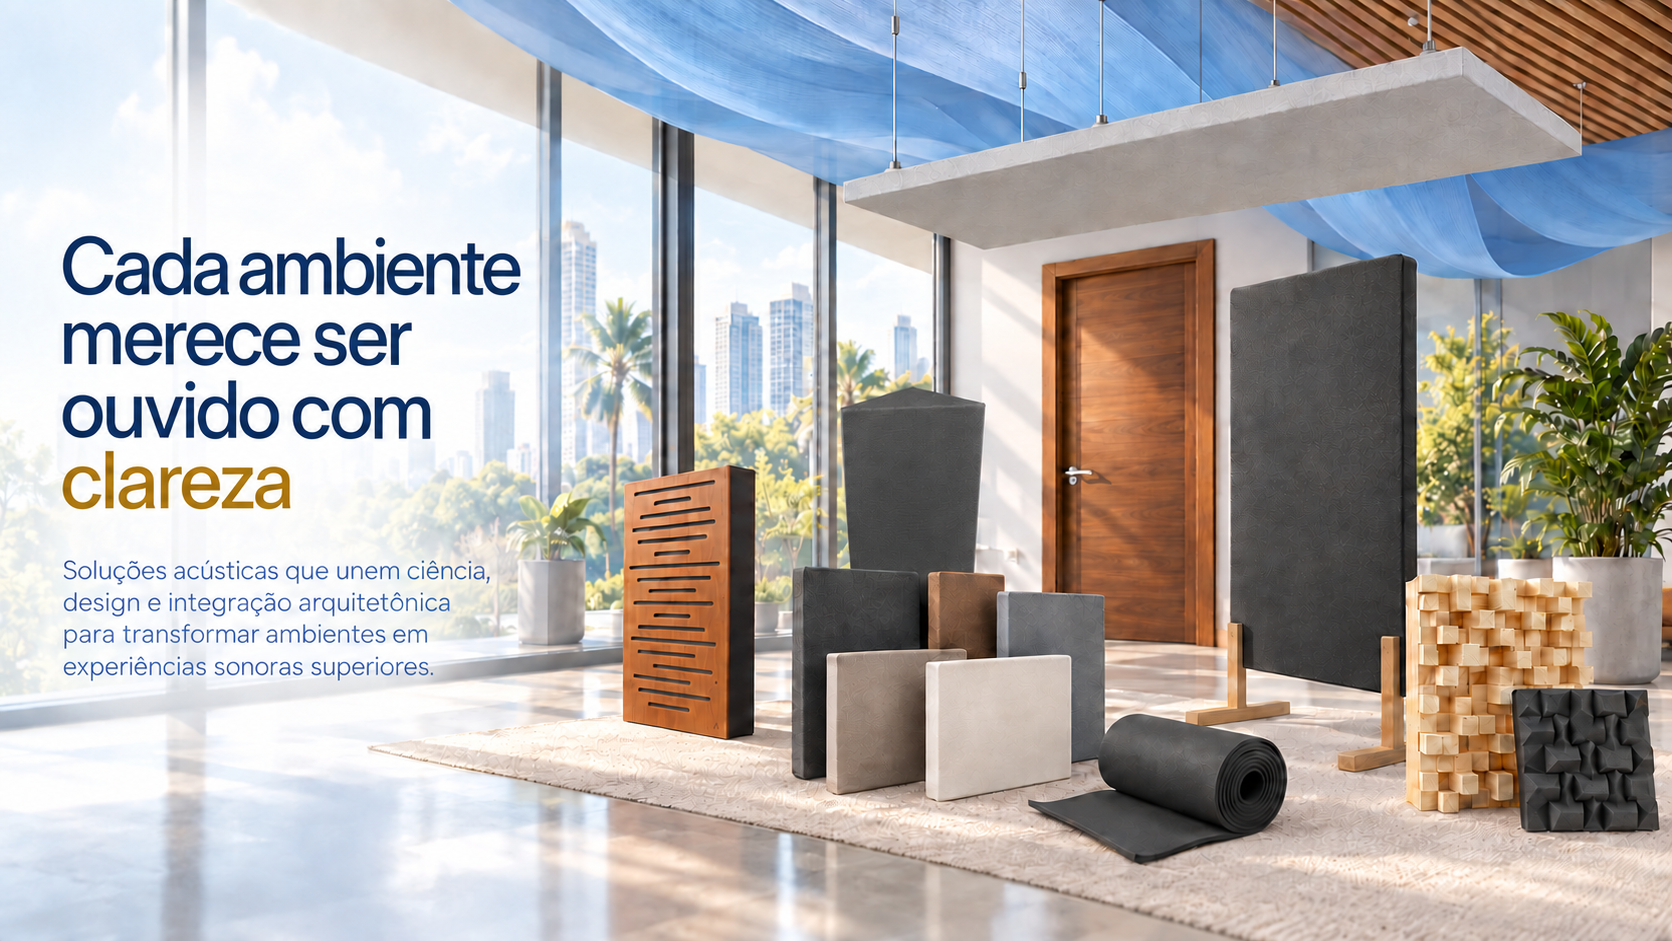
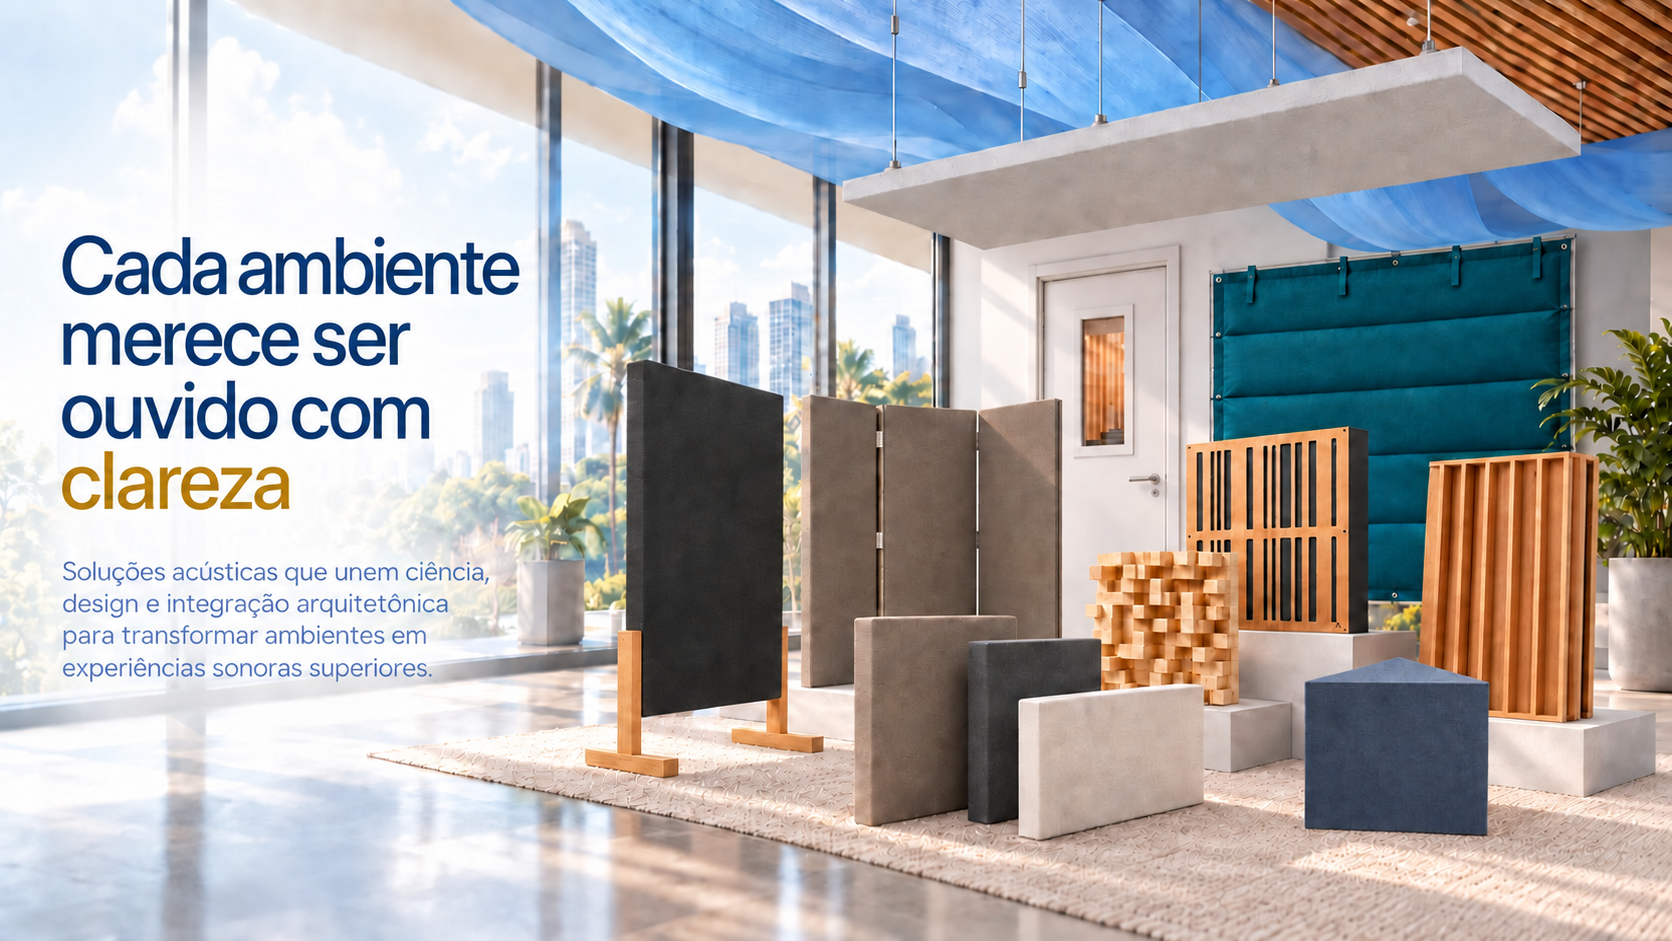
update_home_hero_and_section_order

diff --git a/src/components/sonar/HomeCatalogExperience.tsx b/src/components/sonar/HomeCatalogExperience.tsx
@@ -45,7 +45,7 @@ const items = [
 
 export default function HomeCatalogExperience() {
   return (
-    <section className="relative z-0 order-2 overflow-hidden bg-[#fbfaf7] text-[#071b3d]">
+    <section className="relative z-0 order-2 flex flex-col overflow-hidden bg-[#fbfaf7] text-[#071b3d]">
       <style>{`.snr-catalog-intro{display:grid;gap:34px;align-items:stretch}.snr-feature-card{display:grid;grid-template-columns:minmax(0,38fr) minmax(0,62fr)}.snr-feature-card>dl{grid-column:1/-1;display:grid;grid-template-columns:repeat(2,minmax(0,1fr));gap:14px;border-left:0;border-top:1px solid rgba(7,27,61,.1)}.snr-engineering{display:grid}@media(min-width:560px){.snr-feature-card{grid-template-columns:42% 58%;min-height:340px}.snr-feature-card>dl{grid-template-columns:repeat(5,minmax(0,1fr));gap:12px}}@media(min-width:900px){.snr-catalog-intro{grid-template-columns:minmax(0,32fr) minmax(0,68fr)}.snr-feature-card{grid-template-columns:40% 34% 26%}.snr-feature-card>dl{grid-column:auto;display:flex;border-left:1px solid rgba(7,27,61,.1);border-top:0}.snr-engineering{grid-template-columns:repeat(3,minmax(0,1fr))}}`}</style>
       <div className="h-2 bg-[#020d1d]" />
       <div className="snr-catalog-art relative isolate aspect-[2134/737] w-full overflow-hidden bg-[#031a38] text-white">
@@ -86,7 +86,7 @@ export default function HomeCatalogExperience() {
       </div>
       <div className="h-3 bg-[#f8f8f7]" />
       <div
-        className="mx-auto max-w-[1600px] pb-16 pt-7"
+        className="order-first mx-auto max-w-[1600px] pb-16 pt-7"
         style={{ paddingInline: "var(--snr-home-gutter)" }}
       >
         <div className="snr-catalog-intro">

diff --git a/vite.config.ts b/vite.config.ts
@@ -23,7 +23,7 @@ export default defineConfig(({ mode }) => ({
     mode === "development" && componentTagger(),
     ViteImageOptimizer({
       // Already optimized animated WebP: the default optimizer flattens it.
-      exclude: /hero-products-mobile\.webp$/,
+      exclude: /(?:hero-products-mobile\.webp|hero-home-master\.png)$/,
       png: { quality: 70 },
       jpeg: { quality: 70 },
       jpg: { quality: 70 },
